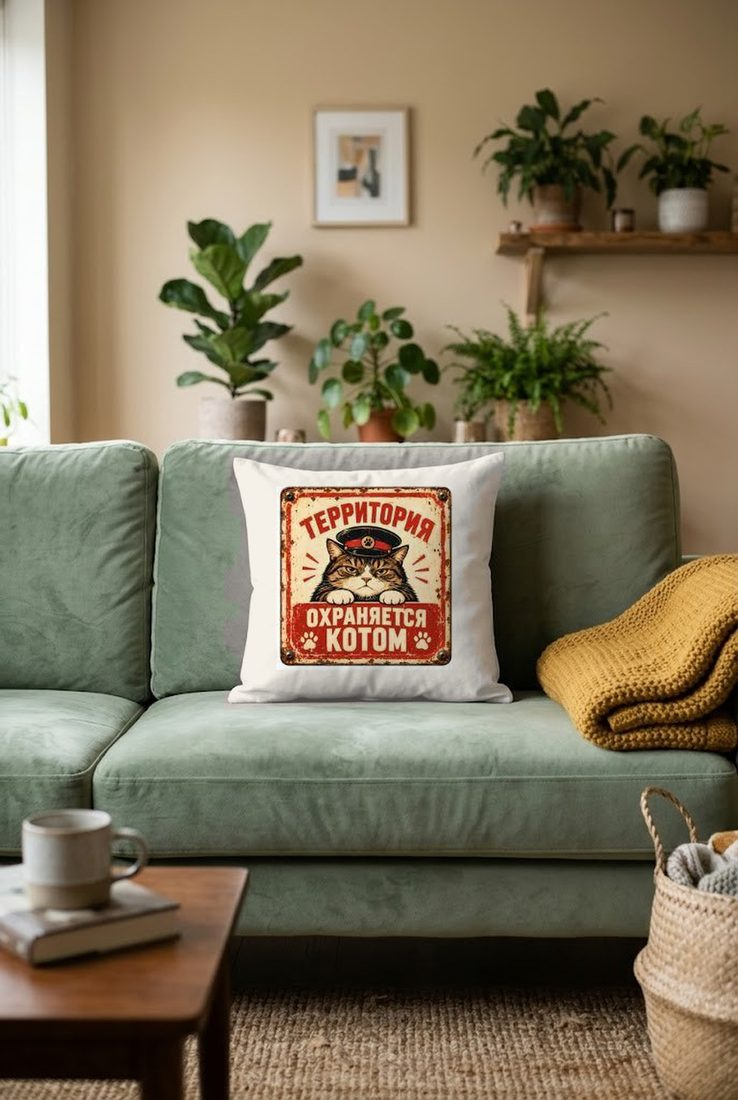
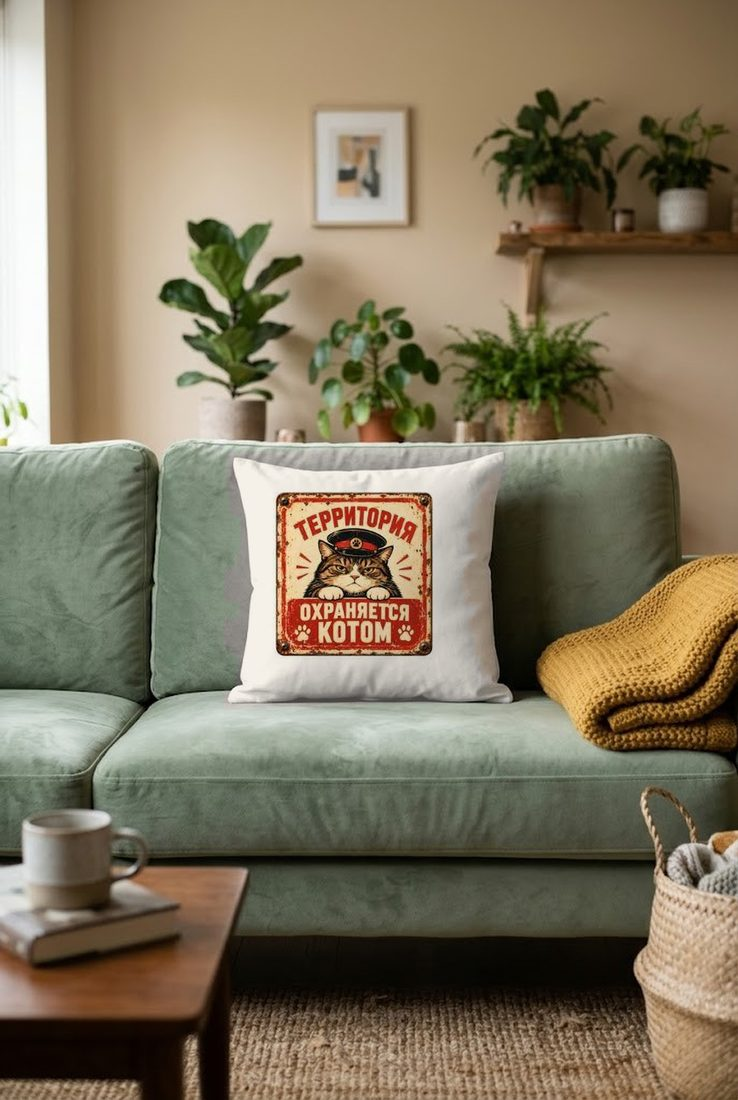
Акцентный цвет: хвойный зелёный вместо вишнёвого; подушки сверены с макетами Custom Factory
Claude-Session: https://claude.ai/code/session_0187eGCnC5xyssWcKJ8FBYa3

Changed region(s): [[0.374, 0.4327, 0.6233, 0.6182]]

diff --git a/index.html b/index.html
@@ -24,7 +24,8 @@
   --cobalt-deep:#0B0907;
   --navy:#16130F;        /* ink */
   --lemon:#E2B04A;       /* gold accent */
-  --coral:#A9303A;       /* pomegranate */
+  --coral:#2D4A35;       /* pine green */
+  --coral-text:#3D6248;
   --ink-2:#6B6157;
   --line:rgba(22,19,15,.14);
   --ozon:#005BFF;
@@ -45,7 +46,7 @@ button{font:inherit;color:inherit}
 :focus-visible{outline:3px solid var(--lemon);outline-offset:3px}
 .wrap{max-width:1320px;margin:0 auto;padding-left:var(--gl);padding-right:var(--gr)}
 h1,h2,h3{font-family:var(--f-display);font-weight:600;margin:0;line-height:1;text-wrap:balance;letter-spacing:-.01em}
-h1 em,h2 em{font-style:italic;font-weight:500;color:var(--coral)}
+h1 em,h2 em{font-style:italic;font-weight:500;color:var(--coral-text)}
 p{margin:0}
 .eyebrow{font-size:.78rem;letter-spacing:.22em;text-transform:uppercase;font-weight:600}
 .hl{font-style:italic;font-weight:500;color:var(--lemon)}
@@ -140,7 +141,7 @@ p{margin:0}
 .trow .nm{font-family:var(--f-display);font-size:clamp(2.6rem,6.4vw,5.4rem);font-weight:600;line-height:1;transition:transform .45s cubic-bezier(.2,.8,.2,1),color .3s}
 .trow .ct{font-size:.95rem;color:var(--ink-2);white-space:nowrap;display:flex;align-items:center;gap:16px}
 .trow .ct .ar{width:46px;height:46px;border-radius:50%;border:2px solid var(--navy);display:grid;place-items:center;transition:background .25s,color .25s}
-.trow:hover .nm{transform:translateX(24px);font-style:italic;color:var(--coral)}
+.trow:hover .nm{transform:translateX(24px);font-style:italic;color:var(--coral-text)}
 .trow:hover .ar{background:var(--navy);color:var(--paper)}
 .trow .mini{display:none}
 .float{position:fixed;left:0;top:0;width:220px;height:280px;pointer-events:none;z-index:40;opacity:0;transition:opacity .25s}
@@ -181,7 +182,7 @@ p{margin:0}
 .buyband{background:var(--coral);color:var(--paper)}
 .buyband .wrap{display:grid;grid-template-columns:minmax(0,1fr) minmax(0,1fr);gap:28px 48px;padding-block:80px;align-items:center}
 .buyband h2{font-size:clamp(2rem,4vw,3.2rem)}
-.buyband p{color:#F3DCD6;margin-top:16px;max-width:42ch}
+.buyband p{color:rgba(244,239,230,.82);margin-top:16px;max-width:42ch}
 .fan{position:relative;display:block;height:380px;text-decoration:none;color:var(--navy)}
 .fc{position:absolute;left:50%;top:50%;width:min(36%,170px);aspect-ratio:3/4;translate:calc(-50% + (var(--i) - 2)*42%) calc(-54% + (var(--i) - 2)*(var(--i) - 2)*5%);rotate:calc((var(--i) - 2)*9deg);transition:translate .6s cubic-bezier(.2,.8,.2,1.2),rotate .6s cubic-bezier(.2,.8,.2,1.2);z-index:calc(5 - (var(--i) - 2)*(var(--i) - 2))}
 .fc img{width:100%;height:100%;object-fit:cover;display:block;border:7px solid var(--paper);border-bottom-width:22px;box-shadow:0 18px 30px -12px rgba(0,0,0,.45);animation:bob 4.5s ease-in-out infinite;animation-delay:calc(var(--i)*-.9s);transition:opacity .35s,filter .35s}
